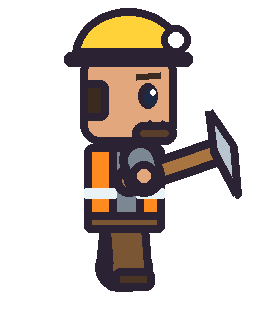
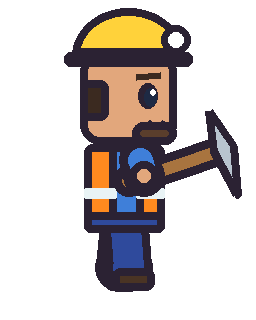
Team Up! 3D: fix the lag spikes, smooth on 90/120 Hz screens, Blocky in blue
* Bonking/mining/slamming a block redrew all 36,000 block slots (35+ ms here,
  much more on a tablet). Now only the block and its neighbours update (~0.1 ms).
  tests/blocks_check.gd checks the quick updates match a full redraw.
* The game now steps once per screen refresh (split into small steps on slow
  frames) instead of a fixed 60 per second, so 90/120 Hz tablets don't judder.
* Effects, shots, props, text sizes and sounds are prepared on the title screen,
  so their first appearance doesn't freeze; the Thunderbolt no longer adds a
  real light (that rebuilds every material on phones). Fewer shadow casters.
* Blocky wears a blue shirt and navy pants (3D and paper art).

Claude-Session: https://claude.ai/code/session_016VAi3dvV3rpwa6cu57MYxQ

Changed region(s): [[0.3438, 0.5938, 0.625, 0.8438], [0.5, 0.4375, 0.625, 0.5312], [0.4375, 0.4688, 0.4688, 0.5312]]

diff --git a/teamup-paper/tools/gen_art.py b/teamup-paper/tools/gen_art.py
@@ -143,8 +143,8 @@ def rocco(name, legA=0.0, legB=0.0, armA=0.0, armB=0.0, squash=0.0, rot=0, blink
 
 # ---------------------------------------------------------------- Blocky
 VEST, VEST_D = rgb("#ff8a1f"), rgb("#d06a10")
-SHIRT = rgb("#7c8794")
-PANTS, PANTS_D = rgb("#7a5634"), rgb("#5c3f24")
+SHIRT = rgb("#3f7fd9")
+PANTS, PANTS_D = rgb("#2f4a9c"), rgb("#233a7c")
 BOOT = rgb("#4a3424")
 HAT = rgb("#ffd23a")
 BSKIN, BSKIN_S = rgb("#e2a77c"), rgb("#c4845a")
